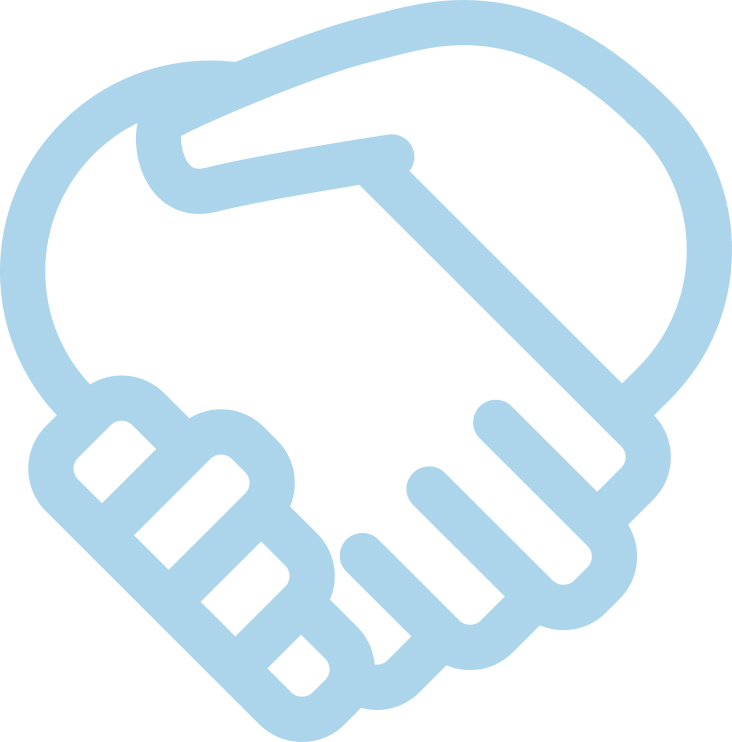
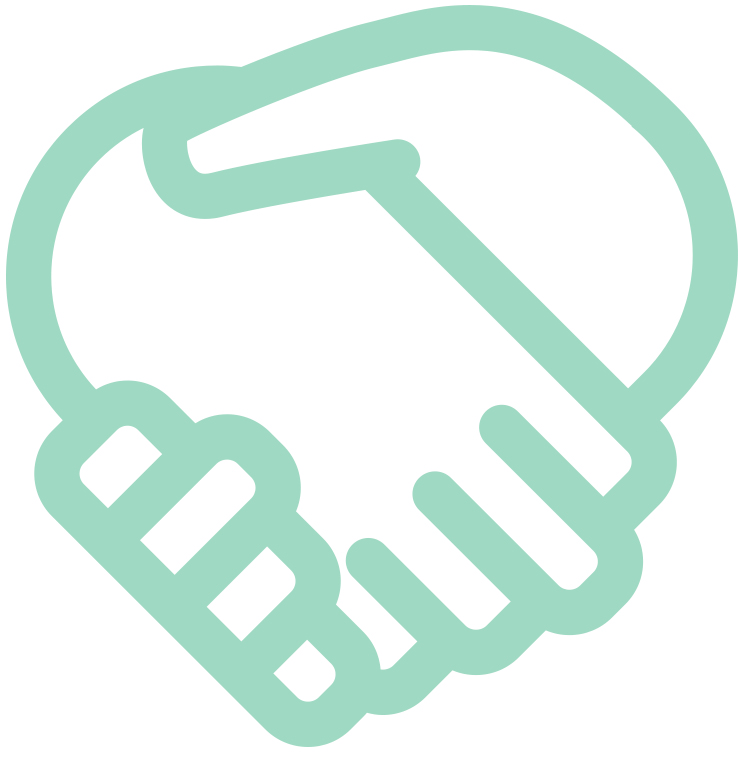
change colors on home page

diff --git a/app/controllers/api/v1/sessions_controller.rb b/app/controllers/api/v1/sessions_controller.rb
@@ -1,0 +1,35 @@
+class API::V1::SessionsController < API::V1::ApiController
+  before_filter :authenticate_user!, :except => [:create, :destroy]
+  before_filter :ensure_params_exist
+  respond_to :json
+
+  def create
+    resource = User.find_for_database_authentication(:email => params[:email])
+    return invalid_login_attempt unless resource
+
+    if resource.valid_password?(params[:password])
+      sign_in(:user, resource)
+      # resource.ensure_authentication_token!
+      render :json=> {:success=>true, :auth_token=>resource.authentication_token, :email=>resource.email}
+      return
+    end
+    invalid_login_attempt
+  end
+
+  def destroy
+    resource = User.find_for_database_authentication(:email => params[:email])
+    resource.authentication_token = nil
+    resource.save
+    render :json=> {:success=>true}
+  end
+
+  protected
+  def ensure_params_exist
+    return unless params[:email].blank?
+    render :json=>{:success=>false, :message=>"missing user_login parameter"}, :status=>422
+  end
+
+  def invalid_login_attempt
+    render :json=> {:success=>false, :message=>"Error with your login or password"}, :status=>401
+  end
+end

diff --git a/app/controllers/application_controller.rb b/app/controllers/application_controller.rb
@@ -1,18 +1,18 @@
 class ApplicationController < ActionController::Base
   # Prevent CSRF attacks by raising an exception.
   # For APIs, you may want to use :null_session instead.
-  protect_from_forgery with: :exception
+  # acts_as_token_authentication_handler_for User
+  # protect_from_forgery with: :exception
   before_filter :configure_permitted_parameters, if: :devise_controller?
   before_filter :set_uuid
   before_filter :set_user_session
-  before_filter :after_token_authentication
+  # before_filter :after_token_authentication
 
   def after_token_authentication
     if params[:authentication_key].present?
       @user = User.find_by_authentication_token(params[:authentication_key])
-      the user with the authentication_key with which devise has authenticated the user
       sign_in @user if @user
-      redirect_to root_path
+      render json: @user, status: 200
     end
   end
 

diff --git a/config/initializers/devise.rb b/config/initializers/devise.rb
@@ -77,7 +77,7 @@ Devise.setup do |config|
   # Notice that if you are skipping storage for all authentication paths, you
   # may want to disable generating routes to Devise's sessions controller by
   # passing skip: :sessions to `devise_for` in your config/routes.rb
-  config.skip_session_storage = [:http_auth]
+  config.skip_session_storage = [:http_auth, :token_auth]
 
   # By default, Devise cleans up the CSRF token on authentication to
   # avoid CSRF token fixation attacks. This means that, when using AJAX

diff --git a/app/controllers/sites_controller.rb b/app/controllers/sites_controller.rb
@@ -46,16 +46,6 @@ class SitesController < ApplicationController
     end
   end
 
-  def pull_print_coupon
-    offer_id = params[:offer_id]
-    rss = HTTParty.get(
-      "http://api.entertainment.com/AtomServer3/feeds/print?" +
-      "uuid=#{current_user.uuid}&offerid=#{offer_id}",
-      basic_auth: { username: "INFO@SISK.COM", password: "T1aPw4SjF" })
-    xml = Feedjira::Feed.parse rss
-    @coupon = xml.entries.first
-  end
-
 private
 
   def categories_from_params

diff --git a/config/routes.rb b/config/routes.rb
@@ -1,15 +1,11 @@
 Sisk::Application.routes.draw do
 
-  apipie
   namespace :api do
     namespace :v1 do
       resources :sites
       resources :benefits
       resources :sections
-      # devise_scope :user do
-      #   post "/sign_in", :to => 'session#create'
-      #   delete "/sign_out", :to => 'session#destroy'
-      # end
+      devise_for :users, :controllers => { :sessions => "api/v1/sessions"}
     end
   end
 

diff --git a/app/helpers/api_helper.rb b/app/helpers/api_helper.rb
@@ -1,0 +1,6 @@
+module APIHelper
+  def validate_auth_token
+    self.resource = User.find_by_authentication_token(params[:auth_token])
+    render :status => 401, :json => {errors: [t('api.v1.token.invalid_token')]} if self.resource.nil?
+  end
+end
